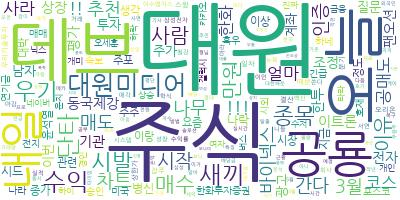
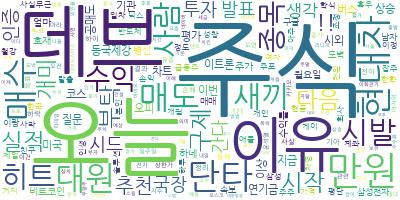
Error의 원인은 UnicodeDecodeError 이유는 알 수 없음 '선택'이란 단어에서 에러 발생 예외처리함

diff --git a/dc.py b/dc.py
@@ -3,6 +3,7 @@ from bs4 import BeautifulSoup
 import MySQLdb
 from sqlalchemy import create_engine
 import pymysql
+import chardet      # 인코딩 타입 확인
 import requests
 import pprint
 from wordcloud import WordCloud
@@ -37,16 +38,22 @@ pp = pprint.PrettyPrinter(indent=4)
 komoran = Komoran()
 wordCounts = {}
 # for word in df['단어']:     # komoran 사용하지 않을 시에
-for word in df['제목']:
-    # words.append(word)
-    # print(type(word))       # <class 'list'>
-    nouns = komoran.nouns(word)
-    for i in nouns:
-        if len(i) == 1:
-            continue
-        if i not in wordCounts:
-            wordCounts[i] = 0
-        wordCounts[i] += 1
+try:
+    for word in df['제목']:
+        # words.append(word)
+        # print(type(word))       # <class 'list'>
+        # print(chardet.universaldetector(word))
+        nouns = komoran.nouns(word)
+        for i in nouns:
+            if len(i) == 1:
+                continue
+            if i not in wordCounts:
+                wordCounts[i] = 0
+            wordCounts[i] += 1
+except UnicodeDecodeError as e:
+    print(e)
+
+
 # pp.pprint(wordCounts)
 
 # 단어 구름 만들기
